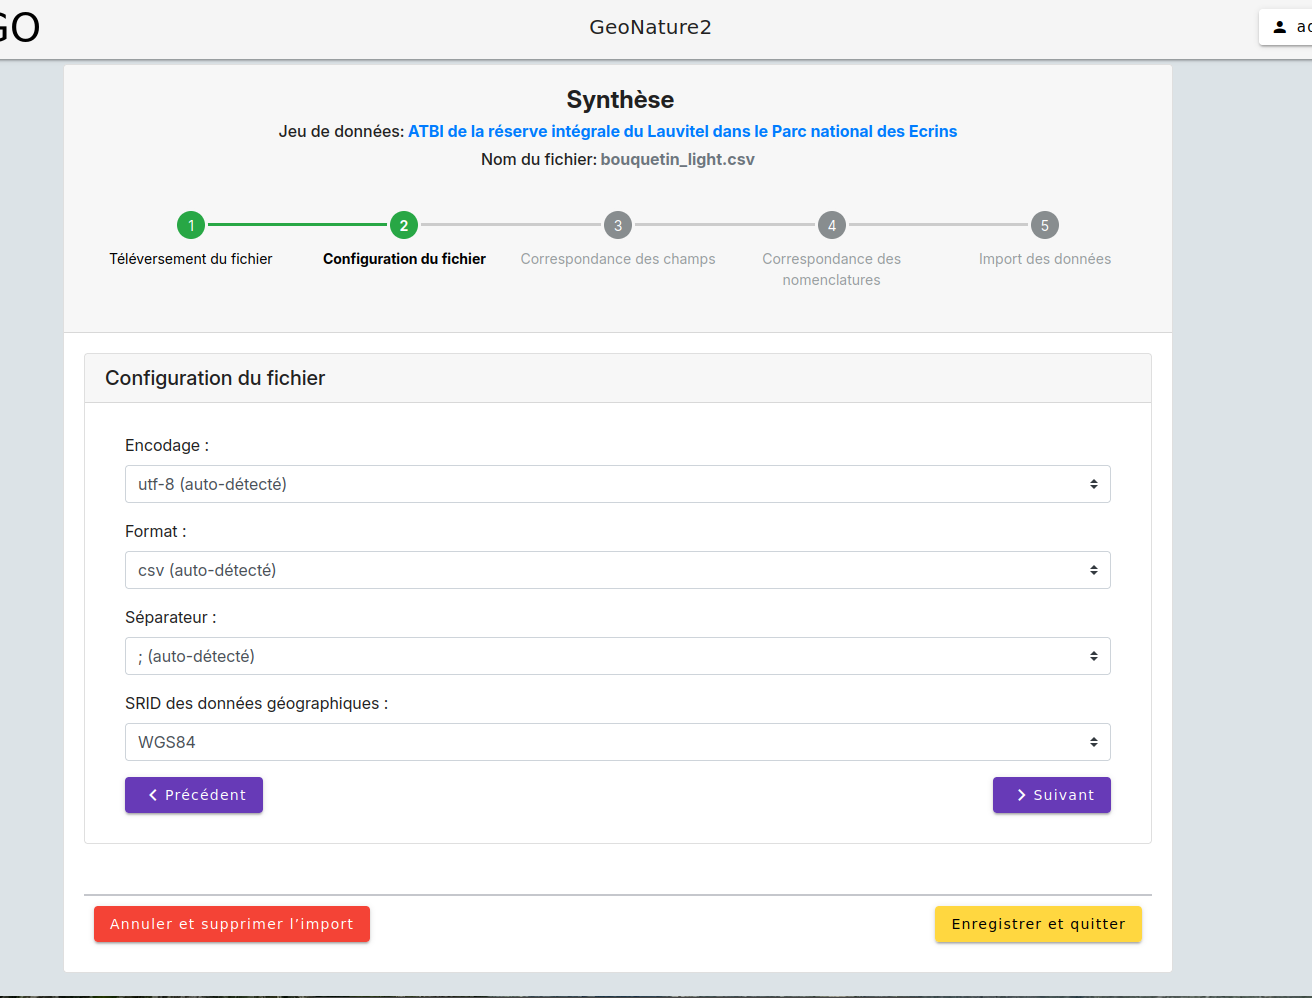
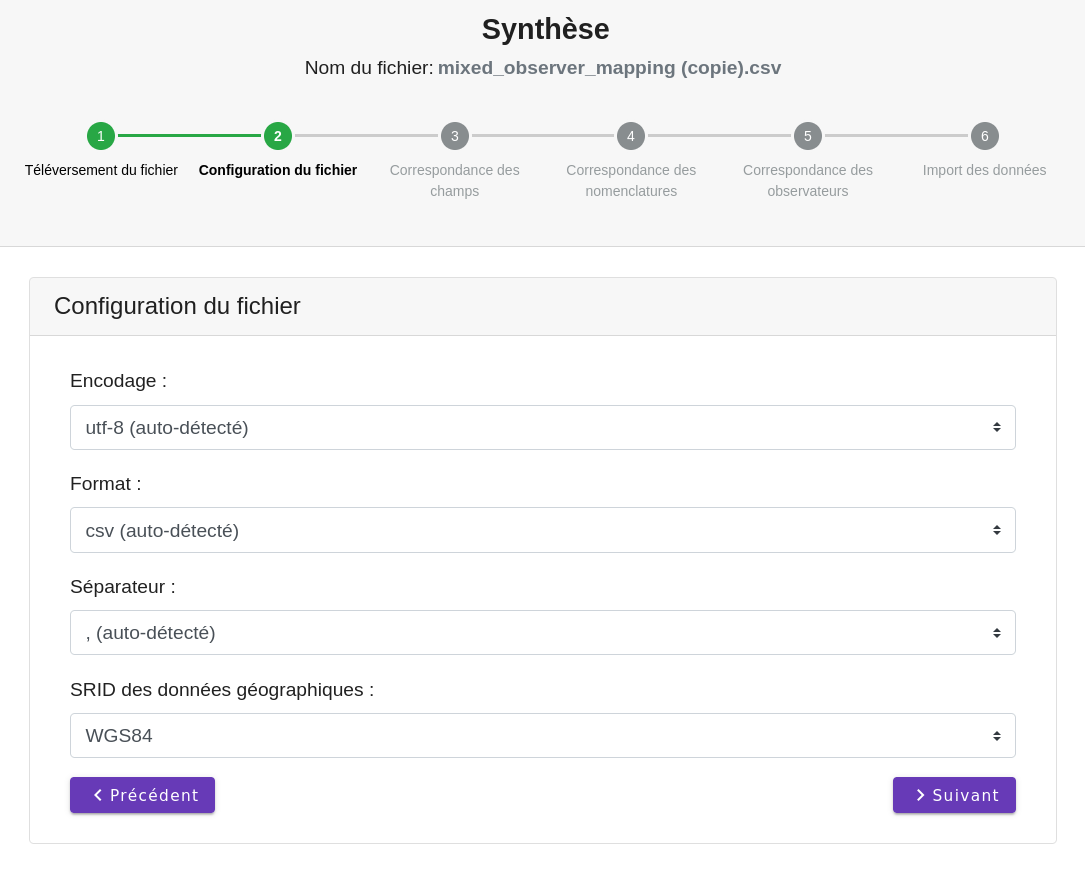
update doc

diff --git a/docs/utilisateur/import.rst b/docs/utilisateur/import.rst
@@ -29,12 +29,8 @@ Pour réaliser un import dans une des destinations de GeoNature, vous devez :
     .. image:: images/import/import_steps/01_destination_choice.png
 
 3.  Une fois la destination choisie, vous serez redirigé vers une nouvelle page. 
-    Dans ce nouveau formulaire, choisissez le jeu de données qui sera associé aux données importées.  
-    Puis, téléverser le fichier contenant les données que vous souhaitez importer. À ce jour, seul le format de fichier CSV est accepté par GeoNature. Une fois les 
+    Dans ce nouveau formulaire, téléverser le fichier contenant les données que vous souhaitez importer. À ce jour, seul le format de fichier CSV est accepté par GeoNature. Une fois les 
     champs remplis, cliquez sur le bouton "Suivant". 
-
-    .. note:: 
-            Si aucun jeu de données n'apparait dans la liste déroulante, vérifier que le jeu de données souhaité est bien activé et associé à la destination souhaitée.
 
     .. image:: images/import/import_steps/02_upload_file.png
 